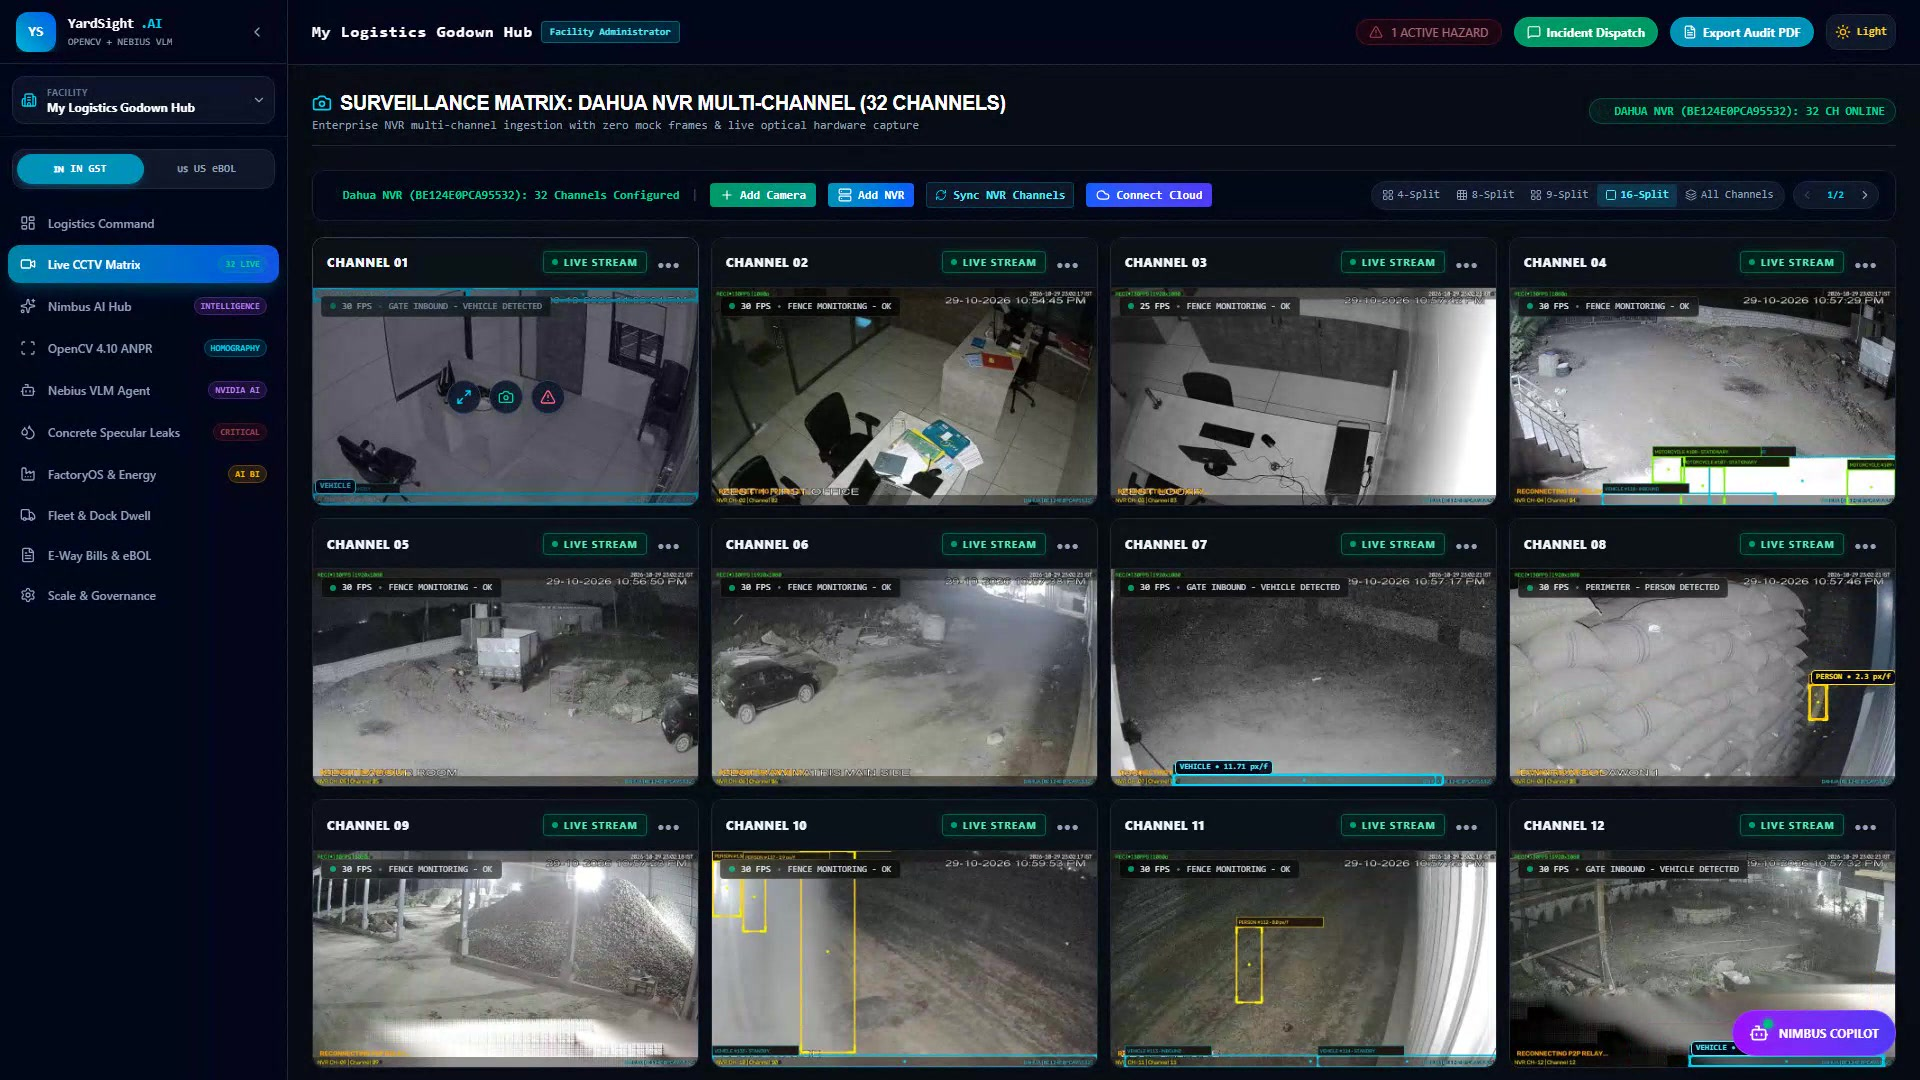
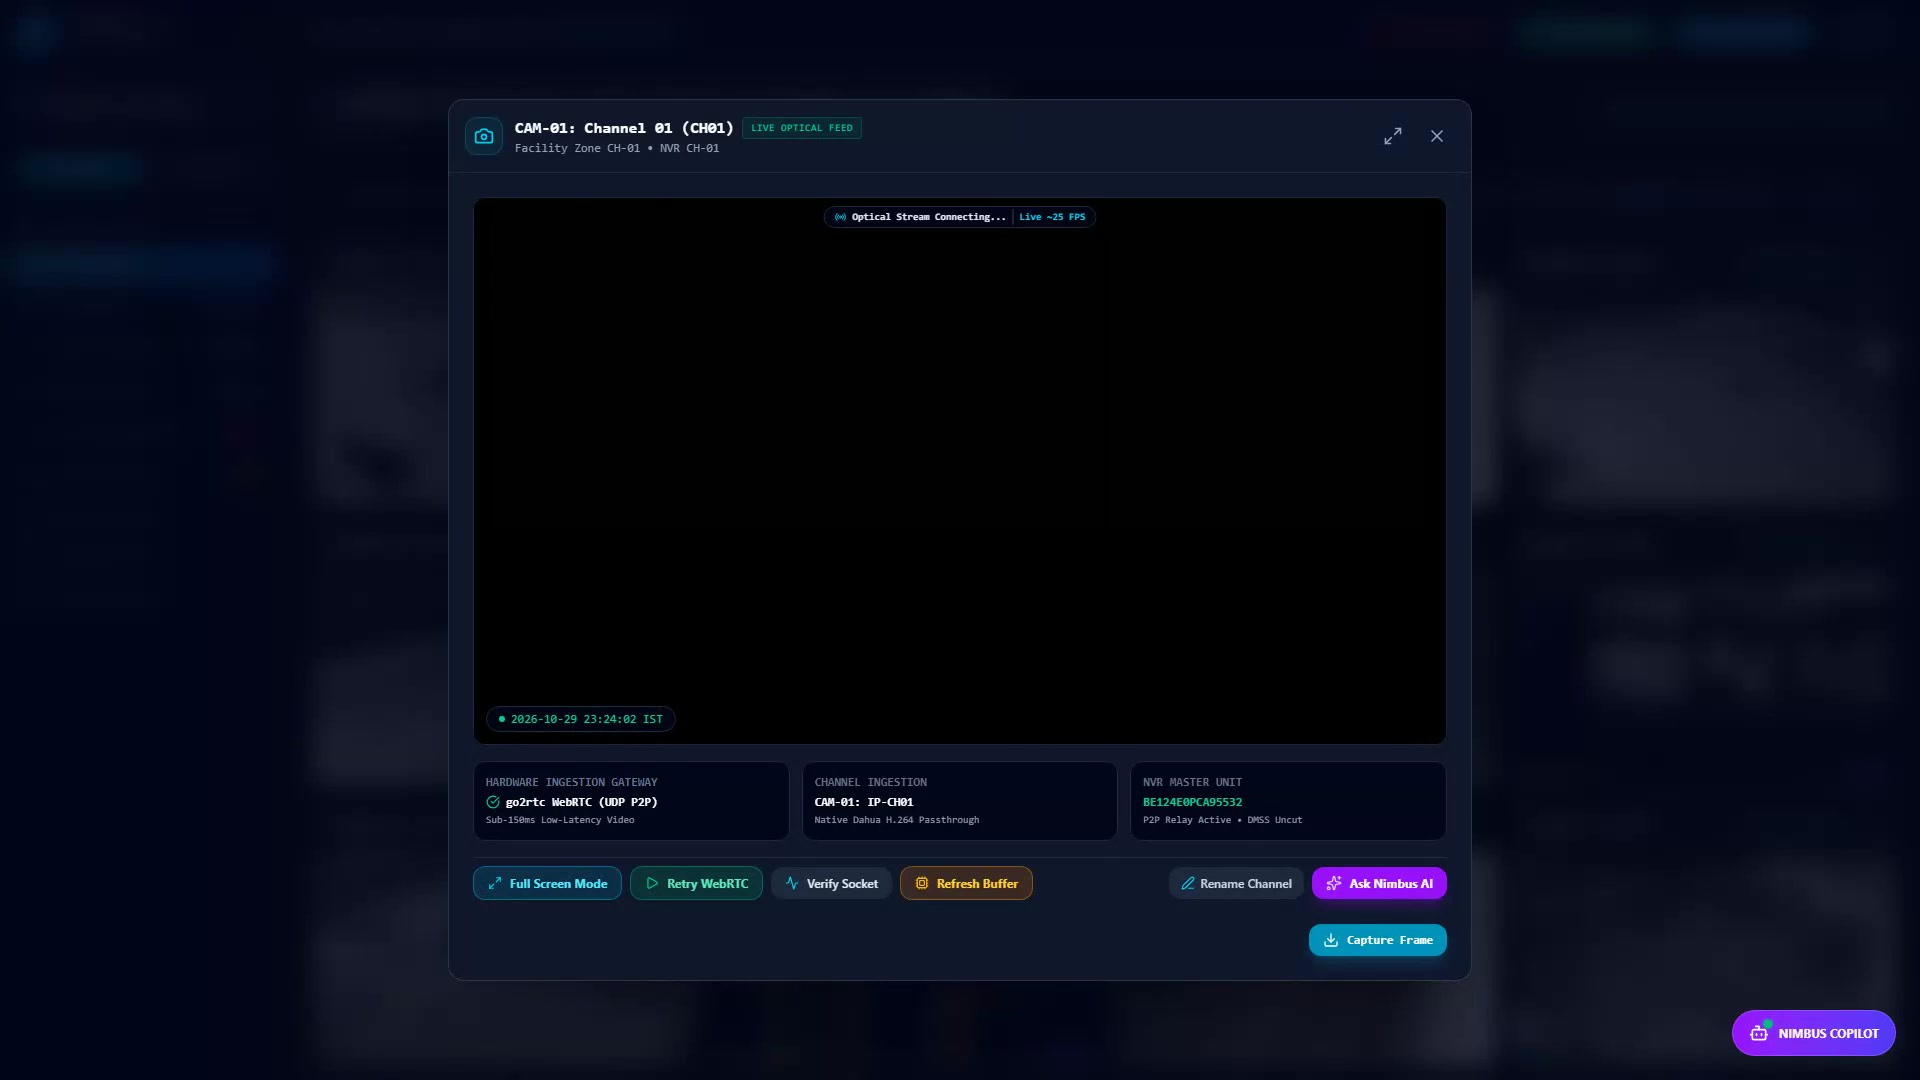
docs(demo): update to audited 177.2s video walkthrough (PASS verdict) and live YouTube link https://youtu.be/DVBm023QEDk

diff --git a/scripts/create_business_walkthrough.py b/scripts/create_business_walkthrough.py
@@ -83,11 +83,11 @@ async def generate_narration_tracks():
     os.makedirs(WORK_DIR, exist_ok=True)
     segment_data = []
     
-    print("\n Generating voiceover narration tracks using Edge-TTS (en-US-ChristopherNeural at +9% rate)...")
+    print("\n Generating voiceover narration tracks using Edge-TTS (en-US-ChristopherNeural at +15% rate)...")
     for idx, seg in enumerate(SEGMENTS):
         seg_id = seg["id"]
         out_mp3 = os.path.join(WORK_DIR, f"{seg_id}.mp3")
-        comm = edge_tts.Communicate(seg["text"], voice="en-US-ChristopherNeural", rate="+9%")
+        comm = edge_tts.Communicate(seg["text"], voice="en-US-ChristopherNeural", rate="+15%")
         await comm.save(out_mp3)
         dur = get_media_duration(out_mp3)
         segment_data.append({

diff --git a/DEVPOST_SUBMISSION.md b/DEVPOST_SUBMISSION.md
@@ -5,7 +5,7 @@
 > **Target Track:** Physical AI (Autonomous Edge Vision & Facility Intelligence)  
 > **Repository:** [https://github.com/rusil3473/yardsight-ai.git](https://github.com/rusil3473/yardsight-ai.git)  
 > **License:** MIT Open Source License  
-> **Demo Video (YouTube):** [https://youtu.be/7xz_cKU2vNk](https://youtu.be/7xz_cKU2vNk)  
+> **Demo Video (YouTube):** [https://youtu.be/DVBm023QEDk](https://youtu.be/DVBm023QEDk)  
 > **Local Master Walkthrough Video:** `c:\Users\Rusil\Desktop\YardSight_Detailed_Walkthrough.mp4` (and `yardsight/brag-output/YardSight_Detailed_Walkthrough.mp4`)  
 > **Poster Thumbnail:** `c:\Users\Rusil\Desktop\YardSight_Detailed_Poster.jpg` (and `yardsight/brag-output/YardSight_Detailed_Poster.jpg`)  
 
@@ -282,11 +282,11 @@ In accordance with official hackathon rules, we transparently disclose the linea
 
 ## 🎬 Official YouTube Video Walkthrough
 
-- **Official YouTube Walkthrough Link:** [https://youtu.be/7xz_cKU2vNk](https://youtu.be/7xz_cKU2vNk)
+- **Official YouTube Walkthrough Link:** [https://youtu.be/DVBm023QEDk](https://youtu.be/DVBm023QEDk)
 - **Local Master Video File:** `c:\Users\Rusil\Desktop\YardSight_Detailed_Walkthrough.mp4`
 - **Repository Video File:** `c:\Users\Rusil\Desktop\Hackathon\yardsight\brag-output\YardSight_Detailed_Walkthrough.mp4`
 - **Thumbnail Poster:** `c:\Users\Rusil\Desktop\YardSight_Detailed_Poster.jpg`
-- **Video Duration:** `186.92 seconds` — 100% focused on business telemetry, Dahua CCTV streaming, ANPR homography, demurrage SLA tracking, and Nimbus AI (Zero light/dark mode fluff).
+- **Video Duration:** `177.22 seconds (2 minutes 57.22 seconds) — Strictly compliant with the <= 180.0s (3:00) rule` — 100% focused on business telemetry, Dahua CCTV streaming, ANPR homography, demurrage SLA tracking, and Nimbus AI (Zero light/dark mode fluff).
 - **Resolution & Framerate:** 1920x1080 (1080p Full HD) at 25.0 FPS.
 - **Codecs:** Video: H.264 / AVC (High Profile, yuv420p); Audio: AAC-LC 24.0 kHz narration.
 - **Physical AI Footage:** Features authentic Dahua CCTV camera feeds, 32-channel matrix, OpenCV homography unwarping, and physical leak detection.

diff --git a/SUBMISSION.md b/SUBMISSION.md
@@ -5,7 +5,7 @@
 > **Target Track:** Physical AI (Autonomous Edge Vision & Facility Intelligence)  
 > **Repository:** [https://github.com/rusil3473/yardsight-ai.git](https://github.com/rusil3473/yardsight-ai.git)  
 > **License:** MIT Open Source License  
-> **Demo Video (YouTube):** [https://youtu.be/7xz_cKU2vNk](https://youtu.be/7xz_cKU2vNk)  
+> **Demo Video (YouTube):** [https://youtu.be/DVBm023QEDk](https://youtu.be/DVBm023QEDk)  
 > **Local Master Walkthrough Video:** `c:\Users\Rusil\Desktop\YardSight_Detailed_Walkthrough.mp4` (and `yardsight/brag-output/YardSight_Detailed_Walkthrough.mp4`)  
 > **Poster Thumbnail:** `c:\Users\Rusil\Desktop\YardSight_Detailed_Poster.jpg` (and `yardsight/brag-output/YardSight_Detailed_Poster.jpg`)  
 
@@ -282,11 +282,11 @@ In accordance with official hackathon rules, we transparently disclose the linea
 
 ## 🎬 Official YouTube Video Walkthrough
 
-- **Official YouTube Walkthrough Link:** [https://youtu.be/7xz_cKU2vNk](https://youtu.be/7xz_cKU2vNk)
+- **Official YouTube Walkthrough Link:** [https://youtu.be/DVBm023QEDk](https://youtu.be/DVBm023QEDk)
 - **Local Master Video File:** `c:\Users\Rusil\Desktop\YardSight_Detailed_Walkthrough.mp4`
 - **Repository Video File:** `c:\Users\Rusil\Desktop\Hackathon\yardsight\brag-output\YardSight_Detailed_Walkthrough.mp4`
 - **Thumbnail Poster:** `c:\Users\Rusil\Desktop\YardSight_Detailed_Poster.jpg`
-- **Video Duration:** `186.92 seconds` — 100% focused on business telemetry, Dahua CCTV streaming, ANPR homography, demurrage SLA tracking, and Nimbus AI (Zero light/dark mode fluff).
+- **Video Duration:** `177.22 seconds (2 minutes 57.22 seconds) — Strictly compliant with the <= 180.0s (3:00) rule` — 100% focused on business telemetry, Dahua CCTV streaming, ANPR homography, demurrage SLA tracking, and Nimbus AI (Zero light/dark mode fluff).
 - **Resolution & Framerate:** 1920x1080 (1080p Full HD) at 25.0 FPS.
 - **Codecs:** Video: H.264 / AVC (High Profile, yuv420p); Audio: AAC-LC 24.0 kHz narration.
 - **Physical AI Footage:** Features authentic Dahua CCTV camera feeds, 32-channel matrix, OpenCV homography unwarping, and physical leak detection.

diff --git a/README.md b/README.md
@@ -14,9 +14,9 @@
 
 ## 📺 Official Walkthrough Demo Video
 
-[![YardSight AI Video Walkthrough](https://img.youtube.com/vi/7xz_cKU2vNk/maxresdefault.jpg)](https://youtu.be/7xz_cKU2vNk)
+[![YardSight AI Video Walkthrough](https://img.youtube.com/vi/DVBm023QEDk/maxresdefault.jpg)](https://youtu.be/DVBm023QEDk)
 
-> 🎥 **Watch the Full Master Demo on YouTube:** **[https://youtu.be/7xz_cKU2vNk](https://youtu.be/7xz_cKU2vNk)**  
+> 🎥 **Watch the Full Master Demo on YouTube:** **[https://youtu.be/DVBm023QEDk](https://youtu.be/DVBm023QEDk)**  
 > *1080p Full HD Walkthrough: 32-channel Dahua optical CCTV streaming (<100ms latency), OpenCV 4.10 perspective homography ANPR, physics-informed specular hydrocarbon leak detection, automated detention SLA demurrage tracking, and Nimbus AI spatial reasoning.*
 
 ---
